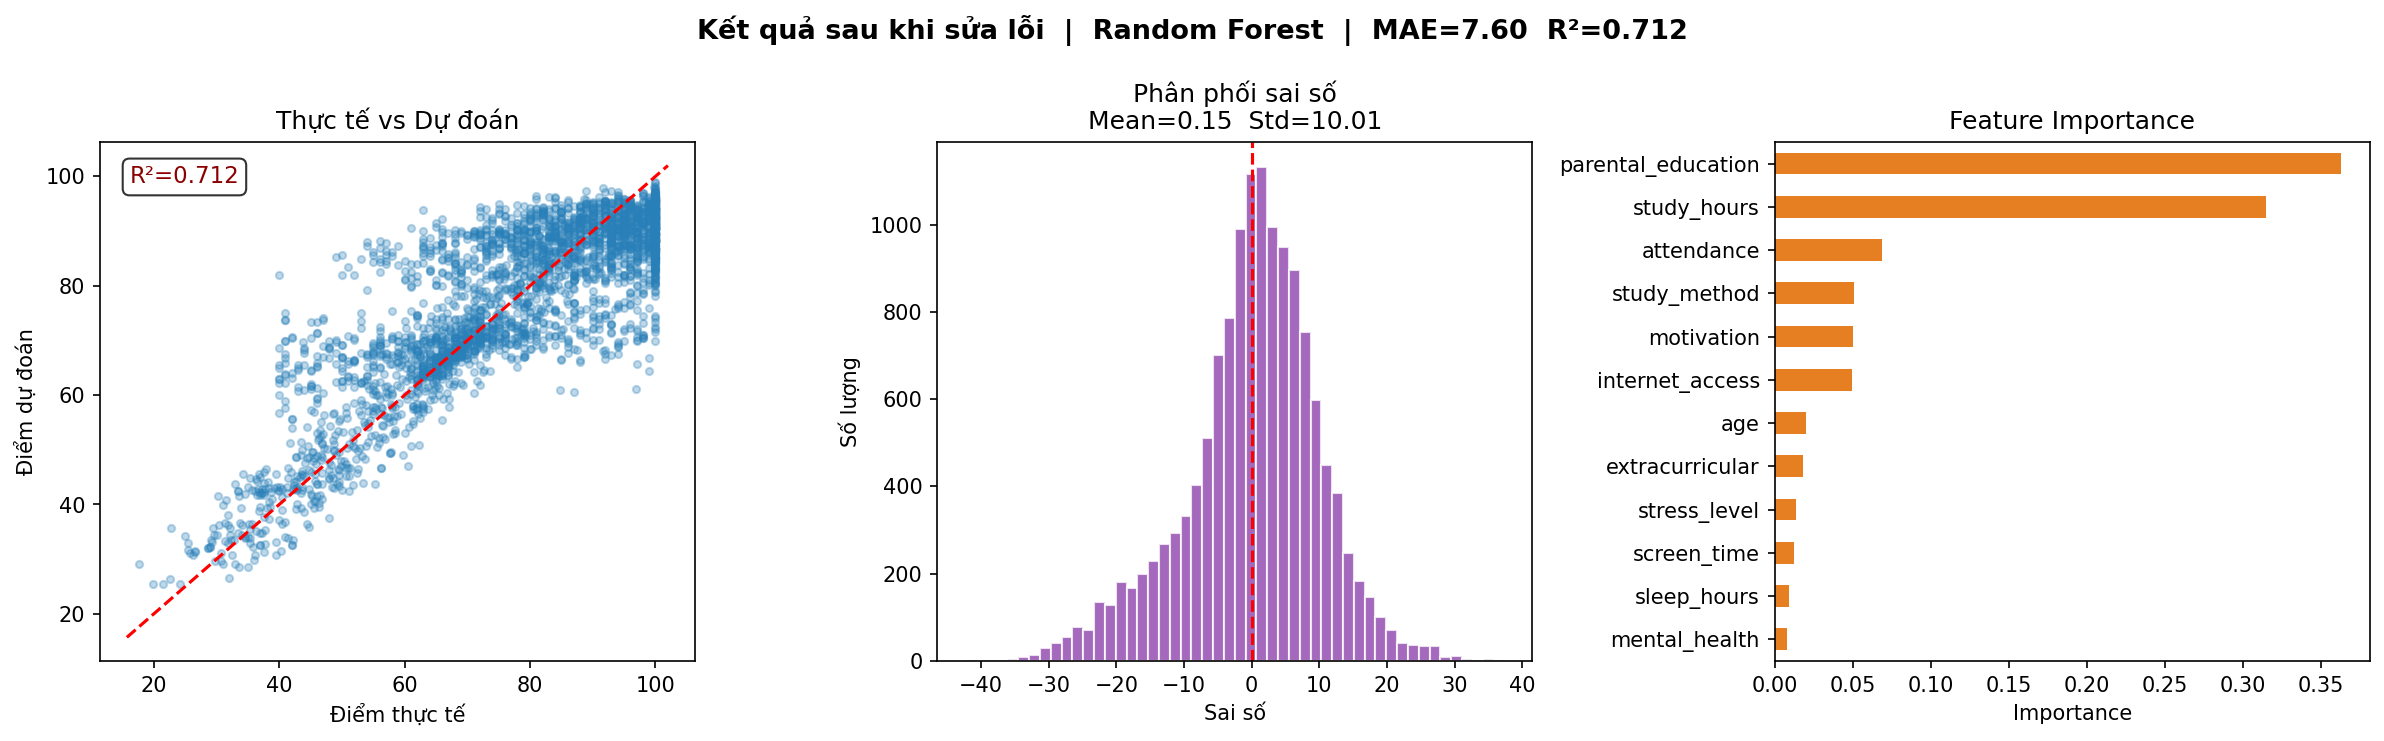
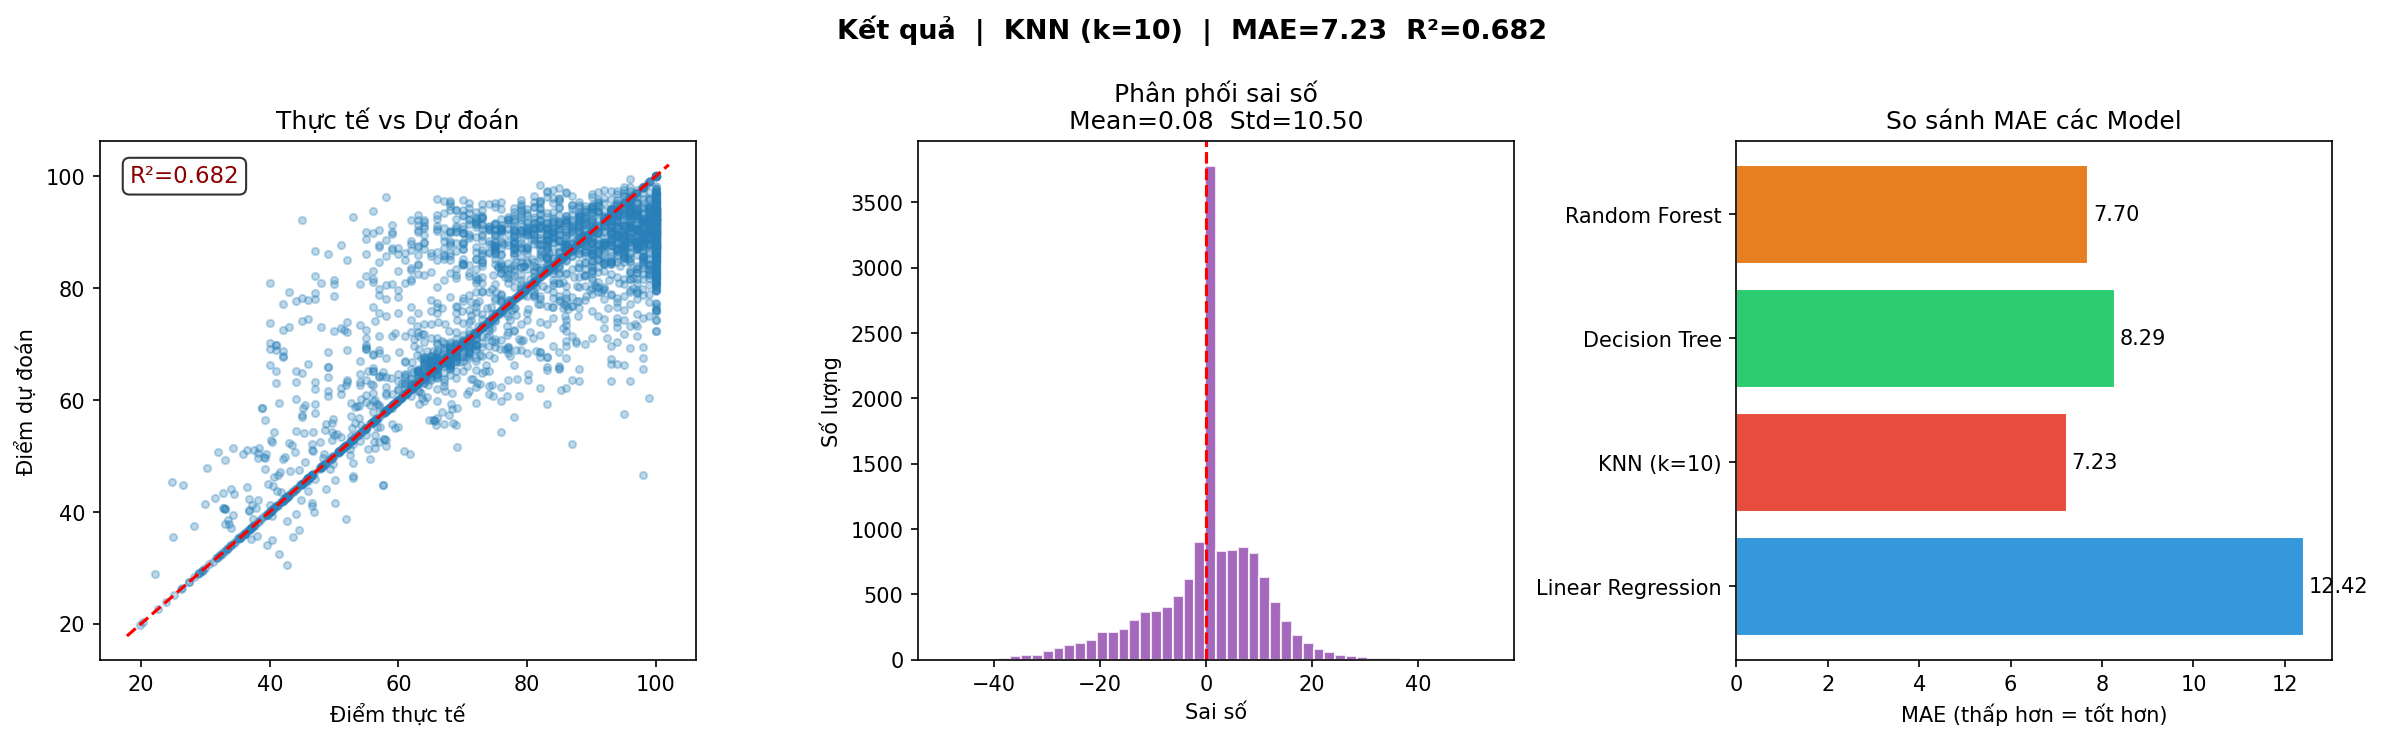
use knn

diff --git a/train_exam_score.py b/train_exam_score.py
@@ -1,6 +1,5 @@
 # ============================================================
-# 🎓 DỰ ĐOÁN ĐIỂM THI - PHIÊN BẢN SỬA LỖI
-# Đã fix: Data Leakage + Mất cân bằng dataset
+# 🎓 DỰ ĐOÁN ĐIỂM 
 # ============================================================
 
 import pandas as pd
@@ -12,15 +11,11 @@ warnings.filterwarnings('ignore')
 from sklearn.model_selection import train_test_split
 from sklearn.preprocessing import LabelEncoder, StandardScaler
 from sklearn.impute import SimpleImputer
-from sklearn.linear_model import Ridge
-from sklearn.ensemble import RandomForestRegressor, GradientBoostingRegressor
+from sklearn.linear_model import LinearRegression
+from sklearn.neighbors import KNeighborsRegressor
+from sklearn.tree import DecisionTreeRegressor
+from sklearn.ensemble import RandomForestRegressor
 from sklearn.metrics import mean_absolute_error, mean_squared_error, r2_score
-
-try:
-    from xgboost import XGBRegressor
-    HAS_XGBOOST = True
-except ImportError:
-    HAS_XGBOOST = False
 
 
 # ============================================================
@@ -116,24 +111,24 @@ print("=" * 60)
 # ✅ Chỉ giữ các features hành vi và môi trường
 
 SAFE_FEATURES = [
-    'study_hours',      # Giờ học mỗi ngày
-    'attendance',       # Tỉ lệ đi học
-    'sleep_hours',      # Giờ ngủ
-    'physical_activity',# Hoạt động thể chất
-    'stress_level',     # Mức độ stress
-    'motivation',       # Động lực học
-    'internet_access',  # Kết nối internet
-    'extracurricular',  # Hoạt động ngoại khóa
+    'study_hours',       # Giờ học mỗi ngày
+    'attendance',        # Tỉ lệ đi học
+    'sleep_hours',       # Giờ ngủ
+    'physical_activity', # Hoạt động thể chất
+    'stress_level',      # Mức độ stress
+    'motivation',        # Động lực học
+    'internet_access',   # Kết nối internet
+    'extracurricular',   # Hoạt động ngoại khóa
     'parental_education',# Trình độ cha mẹ
-    'family_income',    # Thu nhập gia đình
-    'study_method',     # Phương pháp học
-    'gender',           # Giới tính
-    'age',              # Tuổi
-    'screen_time',      # Thời gian dùng điện thoại
-    'mental_health',    # Sức khỏe tinh thần
-    'time_management',  # Kỹ năng quản lý thời gian
-    'exam_score',       # TARGET
-    'source',           # Để cân bằng dataset
+    'family_income',     # Thu nhập gia đình
+    'study_method',      # Phương pháp học
+    'gender',            # Giới tính
+    'age',               # Tuổi
+    'screen_time',       # Thời gian dùng điện thoại
+    'mental_health',     # Sức khỏe tinh thần
+    'time_management',   # Kỹ năng quản lý thời gian
+    'exam_score',        # TARGET
+    'source',            # Để cân bằng dataset
 ]
 
 df_all = pd.concat([d1, d2, d3, d6, d7], ignore_index=True)
@@ -157,8 +152,6 @@ for src in ['D1','D2','D3','D6','D7']:
     sub = df_all[df_all['source']==src]
     print(f"    {src}: {len(sub):>6,} dòng | mean score = {sub['exam_score'].mean():.1f}")
 
-# D2 chiếm 63% data và có phân phối điểm cao bất thường
-# → Downsample D2 xuống bằng tổng các dataset còn lại
 others  = df_all[df_all['source'] != 'D2']
 d2_cap  = df_all[df_all['source'] == 'D2'].sample(n=len(others), random_state=42)
 df_bal  = pd.concat([others, d2_cap], ignore_index=True)
@@ -197,17 +190,22 @@ print(f"  Tổng: {X_imp.shape[1]} features | {X_imp.shape[0]:,} mẫu")
 # ============================================================
 # BƯỚC 5: CHIA DỮ LIỆU
 # ============================================================
+print("\n" + "=" * 60)
+print("BƯỚC 5: CHIA DỮ LIỆU")
+print("=" * 60)
+
 X_temp, X_test, y_temp, y_test = train_test_split(
     X_imp, y, test_size=0.15, random_state=42)
 X_train, X_val, y_train, y_val = train_test_split(
     X_temp, y_temp, test_size=0.176, random_state=42)
 
+# Scale (dùng cho Linear Regression và KNN)
 scaler = StandardScaler()
 X_train_sc = scaler.fit_transform(X_train)
 X_val_sc   = scaler.transform(X_val)
 X_test_sc  = scaler.transform(X_test)
 
-print(f"\n  Train: {len(X_train):,} | Val: {len(X_val):,} | Test: {len(X_test):,}")
+print(f"  Train: {len(X_train):,} | Val: {len(X_val):,} | Test: {len(X_test):,}")
 
 
 # ============================================================
@@ -226,22 +224,34 @@ def evaluate(model, Xtr, ytr, Xvl, yvl, name, scaled=False):
     print(f"\n  🤖 {name}")
     print(f"     MAE  = {mae:.2f}  (sai lệch ±{mae:.1f} điểm)")
     print(f"     R²   = {r2:.4f}  ({r2*100:.1f}%)")
-    return {"name":name,"model":model,"mae":mae,"rmse":rmse,"r2":r2,"scaled":scaled}
+    return {"name": name, "model": model, "mae": mae, "rmse": rmse, "r2": r2, "scaled": scaled}
 
 results = []
-results.append(evaluate(Ridge(alpha=1.0),
-    X_train_sc, y_train, X_val_sc, y_val, "Ridge Regression", scaled=True))
+
+# 1. Linear Regression — cần scale
 results.append(evaluate(
-    RandomForestRegressor(200, max_depth=14, random_state=42, n_jobs=-1),
-    X_train, y_train, X_val, y_val, "Random Forest"))
+    LinearRegression(),
+    X_train_sc, y_train, X_val_sc, y_val,
+    "Linear Regression", scaled=True))
+
+# 2. KNN — cần scale
 results.append(evaluate(
-    GradientBoostingRegressor(n_estimators=200, learning_rate=0.05, max_depth=5, random_state=42),
-    X_train, y_train, X_val, y_val, "Gradient Boosting"))
-if HAS_XGBOOST:
-    results.append(evaluate(
-        XGBRegressor(300, learning_rate=0.05, max_depth=5,
-                     subsample=0.8, colsample_bytree=0.8, random_state=42, verbosity=0),
-        X_train, y_train, X_val, y_val, "XGBoost"))
+    KNeighborsRegressor(n_neighbors=10, weights='distance', n_jobs=-1),
+    X_train_sc, y_train, X_val_sc, y_val,
+    "KNN (k=10)", scaled=True))
+
+# 3. Decision Tree — không cần scale
+results.append(evaluate(
+    DecisionTreeRegressor(max_depth=10, min_samples_leaf=10, random_state=42),
+    X_train, y_train, X_val, y_val,
+    "Decision Tree"))
+
+# 4. Random Forest — không cần scale
+results.append(evaluate(
+    RandomForestRegressor(n_estimators=200, max_depth=14, min_samples_leaf=5,
+                          random_state=42, n_jobs=-1),
+    X_train, y_train, X_val, y_val,
+    "Random Forest"))
 
 
 # ============================================================
@@ -264,8 +274,10 @@ print(f"  MAE  = {test_mae:.2f}  → sai lệch trung bình ±{test_mae:.1f} đi
 print(f"  RMSE = {test_rmse:.2f}")
 print(f"  R²   = {test_r2:.4f}  ({test_r2*100:.1f}%)")
 
-summary = pd.DataFrame([{"Model":r["name"],"MAE":round(r["mae"],2),"R²":round(r["r2"],3)}
-                         for r in results]).sort_values("MAE")
+summary = pd.DataFrame([
+    {"Model": r["name"], "MAE": round(r["mae"], 2), "R²": round(r["r2"], 3)}
+    for r in results
+]).sort_values("MAE")
 print(f"\n{summary.to_string(index=False)}")
 
 
@@ -273,16 +285,17 @@ print(f"\n{summary.to_string(index=False)}")
 # BƯỚC 8: BIỂU ĐỒ
 # ============================================================
 fig, axes = plt.subplots(1, 3, figsize=(16, 5))
-fig.suptitle(f"Kết quả sau khi sửa lỗi  |  {best['name']}  |  MAE={test_mae:.2f}  R²={test_r2:.3f}",
-             fontsize=13, fontweight='bold')
+fig.suptitle(
+    f"Kết quả  |  {best['name']}  |  MAE={test_mae:.2f}  R²={test_r2:.3f}",
+    fontsize=13, fontweight='bold')
 
 # Plot 1: Predicted vs Actual
 ax = axes[0]
 idx = np.random.choice(len(y_test), min(3000, len(y_test)), replace=False)
 yt, yp = y_test.values[idx], y_pred[idx]
 ax.scatter(yt, yp, alpha=0.3, s=12, color='#2980b9')
-lo, hi = min(yt.min(),yp.min())-2, max(yt.max(),yp.max())+2
-ax.plot([lo,hi],[lo,hi],'r--',lw=1.5,label='Hoàn hảo')
+lo, hi = min(yt.min(), yp.min())-2, max(yt.max(), yp.max())+2
+ax.plot([lo, hi], [lo, hi], 'r--', lw=1.5, label='Hoàn hảo')
 ax.set_xlabel("Điểm thực tế"); ax.set_ylabel("Điểm dự đoán")
 ax.set_title("Thực tế vs Dự đoán")
 ax.text(0.05, 0.92, f"R²={test_r2:.3f}", transform=ax.transAxes,
@@ -297,13 +310,28 @@ ax.axvline(0, color='red', linestyle='--', lw=1.5)
 ax.set_xlabel("Sai số"); ax.set_ylabel("Số lượng")
 ax.set_title(f"Phân phối sai số\nMean={residuals.mean():.2f}  Std={residuals.std():.2f}")
 
-# Plot 3: Feature Importance
+# Plot 3: So sánh MAE các model
 ax = axes[2]
+names = [r['name'] for r in results]
+maes  = [r['mae']  for r in results]
+colors = ['#3498db', '#e74c3c', '#2ecc71', '#e67e22']
+bars = ax.barh(names, maes, color=colors[:len(results)], edgecolor='white')
+ax.set_xlabel("MAE (thấp hơn = tốt hơn)")
+ax.set_title("So sánh MAE các Model")
+for bar, val in zip(bars, maes):
+    ax.text(bar.get_width() + 0.1, bar.get_y() + bar.get_height()/2,
+            f'{val:.2f}', va='center', fontsize=10)
+
+# Feature importance (chỉ hiển thị nếu model tốt nhất có thuộc tính này)
 if hasattr(best['model'], 'feature_importances_'):
+    fig2, ax2 = plt.subplots(figsize=(8, 5))
     fi = pd.Series(best['model'].feature_importances_, index=X_train.columns)
-    fi.sort_values(ascending=True).tail(12).plot(kind='barh', ax=ax, color='#e67e22')
-    ax.set_title("Feature Importance")
-    ax.set_xlabel("Importance")
+    fi.sort_values(ascending=True).tail(12).plot(kind='barh', ax=ax2, color='#e67e22')
+    ax2.set_title(f"Feature Importance — {best['name']}")
+    ax2.set_xlabel("Importance")
+    plt.tight_layout()
+    plt.savefig("feature_importance.png", dpi=150, bbox_inches='tight')
+    print("✅ Lưu biểu đồ: feature_importance.png")
 
 plt.tight_layout()
 plt.savefig("ket_qua_fixed.png", dpi=150, bbox_inches='tight')
@@ -322,7 +350,7 @@ model_pkg = {
     'features': list(X_train.columns),
     'metrics' : {'mae': test_mae, 'rmse': test_rmse, 'r2': test_r2},
 }
-with open("exam_score_model_fixed.pkl","wb") as f:
+with open("exam_score_model_fixed.pkl", "wb") as f:
     pickle.dump(model_pkg, f)
 print("✅ Lưu model: exam_score_model_fixed.pkl")
 
@@ -334,27 +362,96 @@ print("\n" + "=" * 60)
 print("KIỂM TRA LOGIC DỰ ĐOÁN")
 print("=" * 60)
 
-def predict(study_hours, attendance, **kwargs):
-    row = {'study_hours': study_hours, 'attendance': attendance}
-    row.update(kwargs)
-    df_in = pd.DataFrame([row])
+def predict(row_dict):
+    """
+    Truyền đầy đủ tất cả features — không để NaN.
+    Imputer vẫn giữ để xử lý edge case, nhưng không ảnh hưởng kết quả.
+    """
+    df_in = pd.DataFrame([row_dict])
+    # Đảm bảo đúng thứ tự cột
     for col in model_pkg['features']:
         if col not in df_in.columns:
-            df_in[col] = np.nan
+            df_in[col] = np.nan  # fallback — không nên xảy ra
     df_in = df_in[model_pkg['features']]
-    df_imp = pd.DataFrame(model_pkg['imputer'].transform(df_in), columns=model_pkg['features'])
+    df_imp = pd.DataFrame(
+        model_pkg['imputer'].transform(df_in), columns=model_pkg['features'])
     X_in = model_pkg['scaler'].transform(df_imp) if model_pkg['scaler'] else df_imp
     sc = float(np.clip(model_pkg['model'].predict(X_in)[0], 0, 100))
     return sc
 
-print("\n  So sánh dự đoán sau khi sửa lỗi:")
+# ── Định nghĩa 3 hồ sơ học sinh đầy đủ ─────────────────────
+# Tất cả features được khai báo tường minh, không để NaN
+# Các giá trị categorical dùng string (LabelEncoder sẽ xử lý nếu cần)
+
+PROFILE_LAZY = {
+    'study_hours'      : 1,      # học rất ít
+    'attendance'       : 50,     # hay nghỉ học
+    'sleep_hours'      : 5,      # ngủ ít
+    'physical_activity': 1,      # ít vận động
+    'stress_level'     : 8,      # stress cao
+    'motivation'       : 2,      # ít động lực
+    'internet_access'  : 1,      # có internet (1=Yes hoặc dạng số)
+    'extracurricular'  : 0,      # không tham gia
+    'parental_education': 0,     # thấp (encoded)
+    'family_income'    : 0,      # thấp (encoded)
+    'study_method'     : 0,      # passive (encoded)
+    'gender'           : 0,
+    'age'              : 17,
+    'screen_time'      : 8,      # dùng điện thoại nhiều
+    'mental_health'    : 3,      # sức khỏe tinh thần kém
+    'time_management'  : 2,      # quản lý thời gian kém
+}
+
+PROFILE_AVERAGE = {
+    'study_hours'      : 4,
+    'attendance'       : 75,
+    'sleep_hours'      : 7,
+    'physical_activity': 3,
+    'stress_level'     : 5,
+    'motivation'       : 5,
+    'internet_access'  : 1,
+    'extracurricular'  : 1,
+    'parental_education': 1,
+    'family_income'    : 1,
+    'study_method'     : 1,
+    'gender'           : 0,
+    'age'              : 17,
+    'screen_time'      : 4,
+    'mental_health'    : 6,
+    'time_management'  : 5,
+}
+
+PROFILE_HARD = {
+    'study_hours'      : 8,
+    'attendance'       : 95,
+    'sleep_hours'      : 8,
+    'physical_activity': 5,
+    'stress_level'     : 2,
+    'motivation'       : 9,
+    'internet_access'  : 1,
+    'extracurricular'  : 1,
+    'parental_education': 2,
+    'family_income'    : 2,
+    'study_method'     : 2,
+    'gender'           : 0,
+    'age'              : 17,
+    'screen_time'      : 1,
+    'mental_health'    : 9,
+    'time_management'  : 9,
+}
+
+# Chỉ giữ features mà model thực sự dùng
+def filter_features(profile):
+    return {k: v for k, v in profile.items() if k in model_pkg['features']}
+
+print("\n  So sánh dự đoán (đầy đủ features, không NaN):")
 cases = [
-    ("Học sinh lười   (study=1h, att=50%, stress=8)", 1, 50, dict(sleep_hours=5, stress_level=8)),
-    ("Học sinh TB     (study=4h, att=75%, stress=5)", 4, 75, dict(sleep_hours=7, stress_level=5)),
-    ("Học sinh chăm   (study=8h, att=95%, stress=2)", 8, 95, dict(sleep_hours=8, stress_level=2)),
+    ("Học sinh lười   (study=1h, att=50%, stress=8)", PROFILE_LAZY),
+    ("Học sinh TB     (study=4h, att=75%, stress=5)", PROFILE_AVERAGE),
+    ("Học sinh chăm   (study=8h, att=95%, stress=2)", PROFILE_HARD),
 ]
-for label, sh, att, kw in cases:
-    sc = predict(sh, att, **kw)
+for label, profile in cases:
+    sc = predict(filter_features(profile))
     bar = '█' * int(sc / 5)
     print(f"  {label}: {sc:.1f}  {bar}")
 
